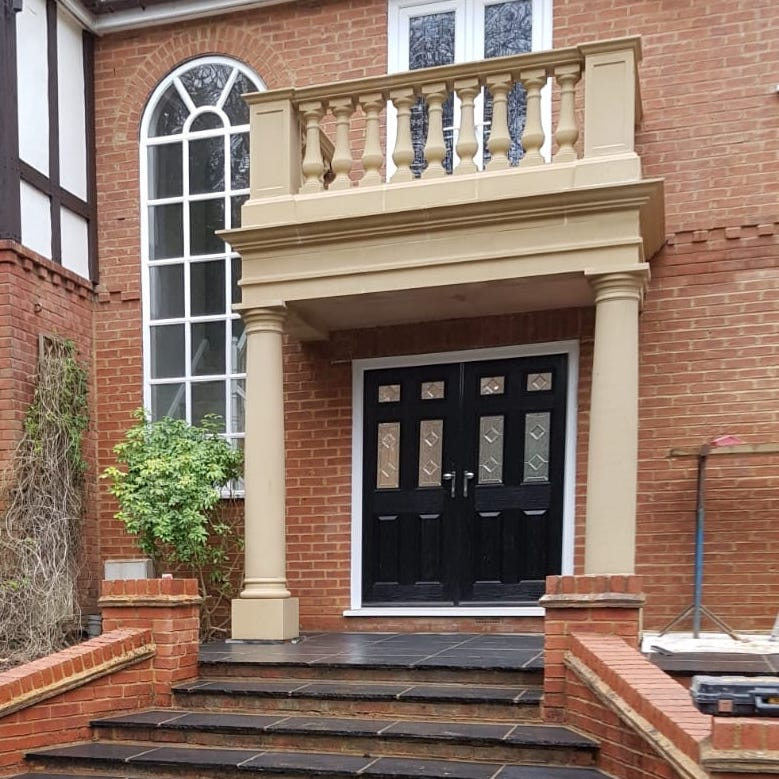
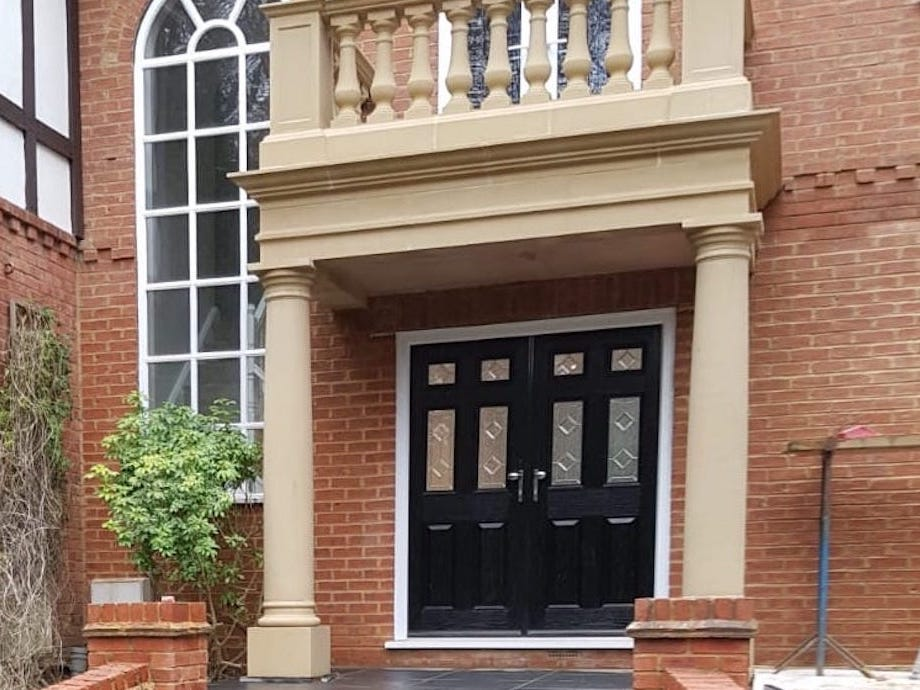
change main photo and add extra photos

diff --git a/index.html b/index.html
@@ -35,7 +35,7 @@
           </p>
         </header>
         <div>
-          <img src="images/portico1.jpg" alt="Prestige Stone Installation" />
+          <img src="images/main.jpg" alt="Prestige Stone Installation" />
         </div>
       </div>
     </section>
@@ -82,11 +82,40 @@
       <div class="container">
         <h2>Recently completed installations</h2>
         <div>
-          <img src="images/portico2.jpg" alt="Recent work example 1" />
-          <img src="images/portico3.jpg" alt="Recent work example 2" />
-          <img src="images/portico4.jpg" alt="Recent work example 3" />
-          <img src="images/portico5.jpg" alt="Recent work example 4" />
-          <img src="images/portico6.jpg" alt="Recent work example 5" />
+          <img src="images/portico10.jpg" alt="Recent work example 10" loading="lazy" />
+          <img src="images/portico11.jpg" alt="Recent work example 11" loading="lazy" class="portrait" />
+          <img src="images/portico12.jpg" alt="Recent work example 12" loading="lazy" class="portrait" />
+          <img src="images/portico13.jpg" alt="Recent work example 13" loading="lazy" class="portrait" />
+          <img src="images/portico14.jpg" alt="Recent work example 14" loading="lazy" />
+          <img src="images/portico15.jpg" alt="Recent work example 15" loading="lazy" />
+          <img src="images/portico16.jpg" alt="Recent work example 16" loading="lazy" />
+          <img src="images/portico17.jpg" alt="Recent work example 17" loading="lazy" />
+          <img src="images/portico18.jpg" alt="Recent work example 18" loading="lazy" />
+          <img src="images/portico19.jpg" alt="Recent work example 19" loading="lazy" />
+          <img src="images/portico20.jpg" alt="Recent work example 20" loading="lazy" />
+          <img src="images/portico21.jpg" alt="Recent work example 21" loading="lazy" />
+          <img src="images/portico22.jpg" alt="Recent work example 22" loading="lazy" />
+          <img src="images/portico23.jpg" alt="Recent work example 23" loading="lazy" />
+          <img src="images/portico24.jpg" alt="Recent work example 24" loading="lazy" />
+          <img src="images/portico25.jpg" alt="Recent work example 25" loading="lazy" />
+          <img src="images/portico26.jpg" alt="Recent work example 26" loading="lazy" class="portrait" />
+          <img src="images/portico27.jpg" alt="Recent work example 27" loading="lazy" />
+          <img src="images/portico28.jpg" alt="Recent work example 28" loading="lazy" />
+          <img src="images/portico29.jpg" alt="Recent work example 29" loading="lazy" />
+          <img src="images/portico30.jpg" alt="Recent work example 30" loading="lazy" class="portrait" />
+          <img src="images/portico31.jpg" alt="Recent work example 31" loading="lazy" class="portrait" />
+          <img src="images/portico32.jpg" alt="Recent work example 32" loading="lazy" class="portrait" />
+          <img src="images/portico33.jpg" alt="Recent work example 33" loading="lazy" />
+          <img src="images/portico34.jpg" alt="Recent work example 34" loading="lazy" class="portrait" />
+          <img src="images/portico35.jpg" alt="Recent work example 35" loading="lazy" class="portrait" />
+          <img src="images/portico36.jpg" alt="Recent work example 36" loading="lazy" />
+
+          <img src="images/portico1.jpg" alt="Recent work example 1" loading="lazy" />
+          <img src="images/portico2.jpg" alt="Recent work example 2" loading="lazy" />
+          <img src="images/portico3.jpg" alt="Recent work example 3" loading="lazy" />
+          <img src="images/portico4.jpg" alt="Recent work example 4" loading="lazy" />
+          <img src="images/portico5.jpg" alt="Recent work example 5" loading="lazy" />
+          <img src="images/portico6.jpg" alt="Recent work example 6" loading="lazy" />
         </div>
       </div>
     </section>

diff --git a/css/main.css b/css/main.css
@@ -148,6 +148,12 @@ footer {
     width: 460px;
     height: 345px;
   }
+  .work img.portrait {
+    width: auto;
+    height: 345px;
+    margin-left: auto;
+    margin-right: auto;
+  }
   .contact .container > div {
     flex: 1;
   }
